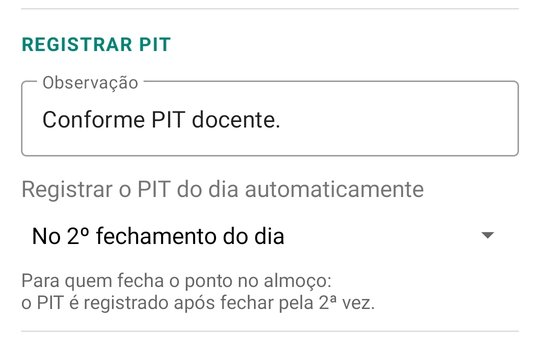
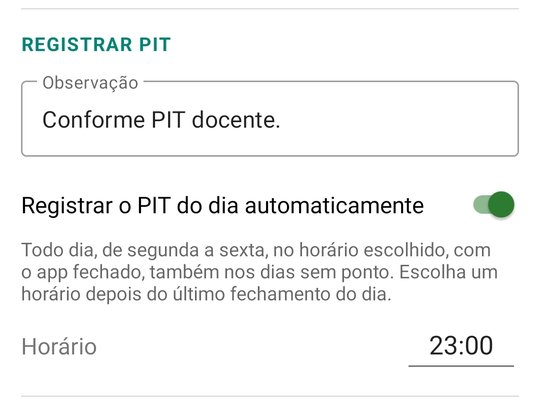
Site: nova captura da seção Registrar PIT, com o horário do PIT automático
Claude-Session: https://claude.ai/code/session_01FDNXwtWsx5y7yoyVrS9N7i

diff --git a/docs/index.html b/docs/index.html
@@ -195,7 +195,7 @@
 
     <div class="sub">
       <h3>Registrar PIT</h3>
-      <figure><img src="img/configuracoes-pit.jpg" alt="Seção Registrar PIT das Configurações, com a Observação e o PIT automático" loading="lazy" width="540" height="339"></figure>
+      <figure><img src="img/configuracoes-pit.jpg" alt="Seção Registrar PIT das Configurações, com a Observação e o PIT automático ligado com o seu horário" loading="lazy" width="540" height="404"></figure>
       <ul>
         <li>A <strong>Observação</strong> vai no formulário do PIT (padrão <em>Conforme PIT docente.</em>).</li>
         <li><strong>Registrar o PIT do dia automaticamente</strong> registra o PIT sozinho todo dia, de segunda a sexta, no <strong>Horário</strong> escolhido (padrão 18:30), mesmo com o app fechado. Vale também nos dias sem trabalho presencial, em que não há ponto. Escolha um horário depois do último fechamento do ponto do dia. Com o fechamento automático ligado, o horário do PIT precisa ser depois de todos os horários dele.</li>

diff --git a/CLAUDE.md b/CLAUDE.md
@@ -220,8 +220,7 @@ compileSdk 36, targetSdk 35, porque com 36 o Android 16 força o edge-to-edge).
   o PIT automático já foram testados em 07/10). Da 1.0.13: tentativas longas no gatilho do Tasker ao
   chegar no campus (notificação de falha, mensagens curtas e Cancelar já testados em 08/10).
 - Testar a abertura pela Wi-Fi (2.1.0) pelo roteiro de `planos/abrir-ponto-wifi.md`.
-- Testar o PIT automático no horário (2.3.0) num dia útil, com o app fechado. A captura
-  `docs/img/configuracoes-pit.jpg` ainda mostra o seletor antigo (No 1º / No 2º fechamento).
+- Testar o PIT automático no horário (2.3.0) num dia útil, com o app fechado.
 - Testar o fechamento automático (2.2.0) num dia útil: nos dois horários, com o ponto aberto e
   fechado, e com o app fechado.
 - O esquema antigo via Termux (wrappers do `setup.sh`, credenciais em `~/.config/ponto/credenciais.env`)
